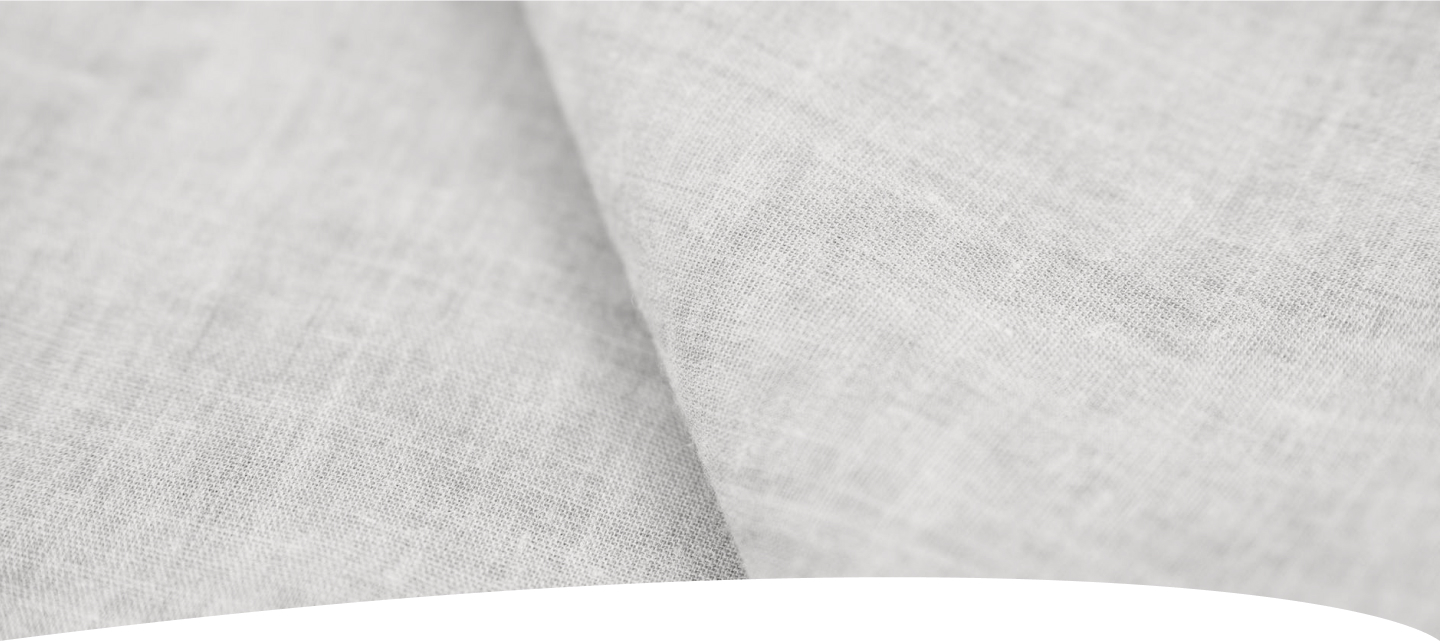
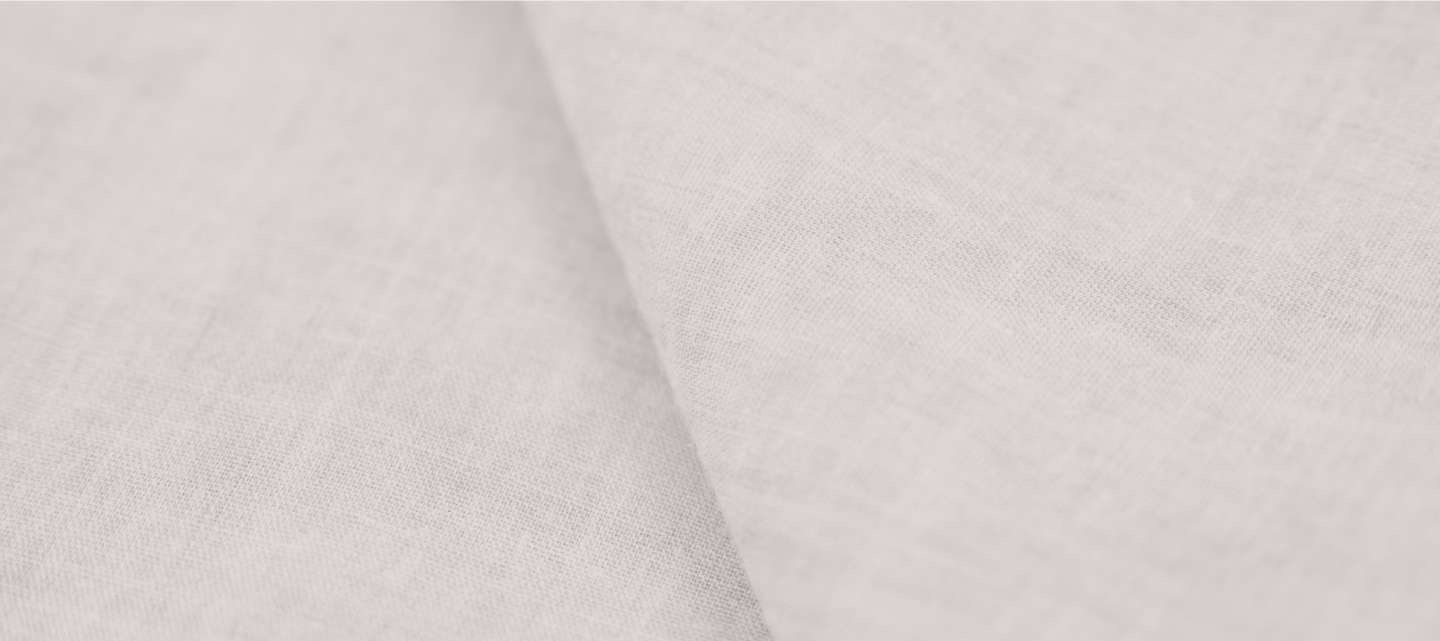
26.03 - seis peale lõunat

diff --git a/index.html b/index.html
@@ -22,7 +22,7 @@
 
 
     <style>
-       
+
 
     </style>
     <title>lumman.ee redesign</title>
@@ -53,30 +53,30 @@
 
                 <div class="offcanvas-body p-lg-0">
                     <ul class="navbar-nav ms-auto">
-                        <li class="nav-item">
+                        <li class="nav-item-navbar">
                             <a class="nav-link active" aria-current="page" href="index.html">AVALEHT</a>
                         </li>
-                        <li class="nav-item">
+                        <li class="nav-item-navbar">
                             <a class="nav-link" href="pood.html">POOD</a>
                         </li>
-                        <li class="nav-item">
+                        <li class="nav-item-navbar">
                             <a class="nav-link" href="meist.html">MEIST</a>
                         </li>
-                        <li class="nav-item">
+                        <li class="nav-item-navbar">
                             <a class="nav-link" href="blogi.html">BLOGI</a>
                         </li>
-                        <li class="nav-item">
+                        <li class="nav-item-navbar">
                             <a class="nav-link" href="kontakt.html">KONTAKT</a>
                         </li>
                         <div class="d-flex ms-3">
                             <li class="mobile-nav-item">
                                 <a class="social-icon" href="index.html"> <img src="img/instagram.svg"></a>
-                        </li>
-                        <li class="mobile-nav-item">
-                            <a class="social-icon" href="index.html"> <img src="img/facebook.svg"></a>
-                        </li>
-                    </div>
-                        
+                            </li>
+                            <li class="mobile-nav-item">
+                                <a class="social-icon" href="index.html"> <img src="img/facebook.svg"></a>
+                            </li>
+                        </div>
+
                     </ul>
 
                 </div>
@@ -115,7 +115,7 @@
                         headust nii inimeste kui keskkonna vastu.</p>
                 </div>
 
-                
+
                 <div class="row text-center justify-content-center mb-5">
                     <div class="col-md-3 col-sm-12">
                         <img src="img/icon-earth.svg" alt="">
@@ -157,11 +157,11 @@
         </div>
     </div>
 
+    <div class="container-fluid ">
+        <div class="row position-relative">
+            <div class="bg-tekstiilitoostuse-moju">
+                <div class="top-wave-3">
 
-    <div class="bg-tekstiilitoostuse-moju">
-        <div class="wave-3">
-            <div class="container-fluid">
-                <div class="container">
                     <div class="row text-800 text-center justify-content-center mb-5">
                         <div class="col  ">
                             <h1 class="mt-5">tekstiilitööstuse mõju</h1>
@@ -173,17 +173,17 @@
                         </div>
                     </div>
                     <div class="row text-800 text-center justify-content-center mb-5">
-                        <div class="col-md-3 col-sm-12">
+                        <div class="col-md-3 col-sm-12 ">
                             <h4>Hinnanguliselt tekitab tekstiilitööstus</h4>
                             <p div class="facts"><span class="num" data-val="10">0</span>%</p>
                             <h4 div class="mb-5">ülemaailmsest CO2 heitkogusest</h4>
                         </div>
-                        <div class="col-md-3 col-sm-12">
+                        <div class="col-md-3 col-sm-12 ">
                             <h4>Aastas kasutab tekstiilitööstus</h4>
                             <p div class="facts"><span class="num" data-val="79">0</span></p>
                             <h4 div class="mb-5">miljardit tonni vett</h4>
                         </div>
-                        <div class="col-md-3 col-sm-12">
+                        <div class="col-md-3 col-sm-12 ">
                             <h4>Ühe t-särgi tootmiseks kulub</h4>
 
                             <p div class="facts"><span class="num" data-val="2700">0</span></p>
@@ -199,6 +199,7 @@
                         </div>
                     </div>
                 </div>
+
             </div>
         </div>
     </div>
@@ -235,90 +236,77 @@
     </div>
 
 
-
-    <div class="bg-footer">
-        <div class="container-fluid">
-
+    <footer class="bg-footer pt-4">
             <div class="container text-white">
-                <footer class="py-5">
                     <div class="row">
-                        <div class="col-md-3 col-sm-12">
-                            <h5>E-POOD</h5>
+                        <div class="col-md-4 col-sm-12 mb-4">
+                            <p>E-POOD</p>
                             <ul class="nav flex-column">
-                                <li class="nav-item mb-2"><a href="#"
+                                <li class="nav-item mb-1"><a href="#"
                                         class="nav-link p-0 text-white">Müügitingimused</a></li>
-                                <li class="nav-item mb-2"><a href="#"
+                                <li class="nav-item mb-1"><a href="#"
                                         class="nav-link p-0 text-white">Privaatsustingimused</a></li>
-                                <li class="nav-item mb-2"><a href="#" class="nav-link p-0 text-white">Tarneinfo</a></li>
-                                <li class="nav-item mb-2"><a href="#" class="nav-link p-0 text-white">Makseviisid</a>
+                                <li class="nav-item mb-1"><a href="#" class="nav-link p-0 text-white">Tarneinfo</a></li>
+                                <li class="nav-item mb-1"><a href="#" class="nav-link p-0 text-white">Edasimüüjale</a>
                                 </li>
-                                <li class="nav-item mb-2"><a href="#" class="nav-link p-0 text-white">Edasimüüjale</a>
+                                <li class="nav-item mb-1"><a href="#" class="nav-link p-0 text-white">Kontakt</a>
                                 </li>
+                                <div class="d-flex mt-4">
+                                    
+                                        <a class="social-icon pe-2" href="index.html"> <img src="img/instagram.svg"></a>
+                                    
+                                    
+                                        <a class="social-icon" href="index.html"> <img src="img/facebook.svg"></a>
+                                    
+                                </div>
                             </ul>
                         </div>
 
-                        <div class="col-md-3 col-sm-12">
-                            <h5>KONTAKTID</h5>
+            
+
+                        <div class="col-md-4 col-sm-12 mb-4">
+                            <p>KOOSTÖÖPARTNERID</p>
                             <ul class="nav flex-column">
-                                <li class="nav-item mb-2"><a href="#" class="nav-link p-0 text-white">Lumman OÜ</a></li>
-                                <li class="nav-item mb-2"><a href="#" class="nav-link p-0 text-white">Reg nr
-                                        14627582</a></li>
-                                <li class="nav-item mb-2"><a href="#" class="nav-link p-0 text-white">E-mail
-                                        info@lumman.ee</a></li>
-                                <li class="nav-item mb-2"><a href="#" class="nav-link p-0 text-white">Tel 58043166,
-                                        58530442</a></li>
-                                <li class="nav-item mb-2"><a href="#" class="nav-link p-0 text-white">IG/FB icons</a>
+                                <li class="pb-1 pt-1"><a class="image-button" href="index.html"> <img src="img/materjalivoog.svg"></a>
                                 </li>
+                                <li class="pb-1 pt-1"><a class="image-button" href="index.html"> <img src="img/astangu.svg"></a></li>
+                                <li class="pb-1 pt-1"><a class="image-button" href="index.html"> <img src="img/perekaart.svg"></a></li>
                             </ul>
                         </div>
 
-                        <div class="col-md-3 col-sm-12">
-                            <h5>KOOSTÖÖPARTNERID</h5>
-                            <ul class="nav flex-column">
-                                <li class="nav-item mb-2"><a href="#" class="nav-link p-0 text-white">Materjalivoog</a>
-                                </li>
-                                <li class="nav-item mb-2"><a href="#" class="nav-link p-0 text-white">Astangu</a></li>
-                                <li class="nav-item mb-2"><a href="#" class="nav-link p-0 text-white">Perekaart</a></li>
-                            </ul>
-                        </div>
-
-                        <div class="col-md-3 col-sm-12">
+                        <div class="col-md-4 col-sm-12 mb-4">
                             <form>
-                                <h5>ESIMESE OSTU SOODUSTUS -5%</h5>
-                                <div class="d-flex w-100 gap-2">
+                                <p>ESIMESE OSTU SOODUSTUS -5%</p>
+                                <div class="d-flex w-100 gap-2 mt-1 mb-1">
                                     <label for="newsletter1" class="visually-hidden">Sisesta e-posti aadress</label>
                                     <input id="newsletter1" type="text" class="form-control"
                                         placeholder="Sisesta e-posti aadress">
                                 </div>
-                                <button class="btn btn-light" type="button">SOOVIN</button>
-                                <p>Liitudes meie uudiskirjaga on esimesel ostul Sulle kogu Lummani täishinnaga
+                                <button class="btn btn-light mt-2 mb-2" type="button">SOOVIN</button>
+                                <p class="body-12">Liitudes meie uudiskirjaga on esimesel ostul Sulle kogu Lummani täishinnaga
                                     tootevalik 5% soodsam. Uudiskirja tellides oled tutvunud ning nõustud meie
                                     privaatsuspoliitikaga.</p>
                             </form>
                         </div>
                     </div>
 
-                    <div class="d-flex justify-content-between py-4 my-4 border-top">
-                        <p>&copy; 2021 Lumman OÜ</p>
-                        <ul class="list-unstyled d-flex">
-                            <li class="ms-3"><a class="link-dark" href="#"><svg class="bi" width="24" height="24">
-                                        <use xlink:href="#twitter"></use>
-                                    </svg></a></li>
-                            <li class="ms-3"><a class="link-dark" href="#"><svg class="bi" width="24" height="24">
-                                        <use xlink:href="#instagram"></use>
-                                    </svg></a></li>
-                            <li class="ms-3"><a class="link-dark" href="#"><svg class="bi" width="24" height="24">
-                                        <use xlink:href="#facebook"></use>
-                                    </svg></a></li>
-                        </ul>
-                    </div>
-                </footer>
+                    
+                
             </div>
-        </div>
+       
+    </footer>
+
+<footer>
+    <div class="bg-footer-absolute pt-2">
+        <div class="container">
+        <p>&copy; 2022 Lumman OÜ</p>
+    </div>
     </div>
 
+</div>
 
-
+</footer>
+</footer>
 
     <!-- Optional JavaScript; choose one of the two! -->
 

diff --git a/css/styles.css b/css/styles.css
@@ -21,6 +21,11 @@ h4 {
     size: 20px;
 }
 
+h5 {
+    font-family: 'Quicksand', sans-serif;
+    size: 18px;
+}
+
 body {
     font-family: 'Quicksand', sans-serif;
     font-size: 18px;
@@ -29,6 +34,11 @@ body {
 .body-16 {
     font-family: 'Quicksand', sans-serif;
     font-size: 16px;
+}
+
+.body-12 {
+    font-family: 'Quicksand', sans-serif;
+    font-size: 12px;
 }
 
 .facts {
@@ -157,10 +167,22 @@ body {
 
 
 .bg-tekstiilitoostuse-moju {
+   
     background: url(../img/bg-tekstiilitoostuse-moju.png) no-repeat;
     background-size: cover;
-    margin-left: 0%;
-    margin-right: 0%;
+
+    height: 45rem;
+   
+}
+
+.top-wave-3 {
+    background: url(../img/laine-1.svg) no-repeat bottom;
+    background-size: 100%;
+    width: 100%;
+    height: 100%;
+    bottom: 0;
+    left: 0;
+    position: absolute;
 }
 
 .wave-3 {
@@ -227,7 +249,7 @@ body {
 
 }
 
-    .nav-item {
+    .nav-item-navbar {
         /* Set up the hover */
 /* If you aren't using autoprefix, remember to prefix the gradient for other browsers */
 background-image: linear-gradient(rgb(255, 255, 255), rgb(255, 255, 255));
@@ -237,7 +259,7 @@ background-position: center bottom;
 transition: all .2s ease-out;
 }
 
-.nav-item:hover {
+.nav-item-navbar:hover {
 /* The following line makes the underline only as wide as the text */
 /* background-size: calc(100% - 2em) 5px, auto; */
 background-size: calc(100% - 4rem) 1px, auto;
@@ -276,6 +298,11 @@ background-color: rgb(208, 201, 191)
 
 .bg-footer {
     background-color: #A49688;
+}
+
+.bg-footer-absolute {
+    background-color: white;
+    color: #795A4A;
 }
 
 .empty-space {
@@ -512,4 +539,7 @@ a:link {
     color: white;
   }
 
-
+.image-button {
+    height: 80px;
+    padding-bottom: 12px;
+}

diff --git a/meist.html b/meist.html
@@ -97,7 +97,7 @@
 
 
 
-    <div class="bg-footer">
+    <div class="bg-footer pt">
     <div class="container-fluid">
         
             <div class="container text-white">
